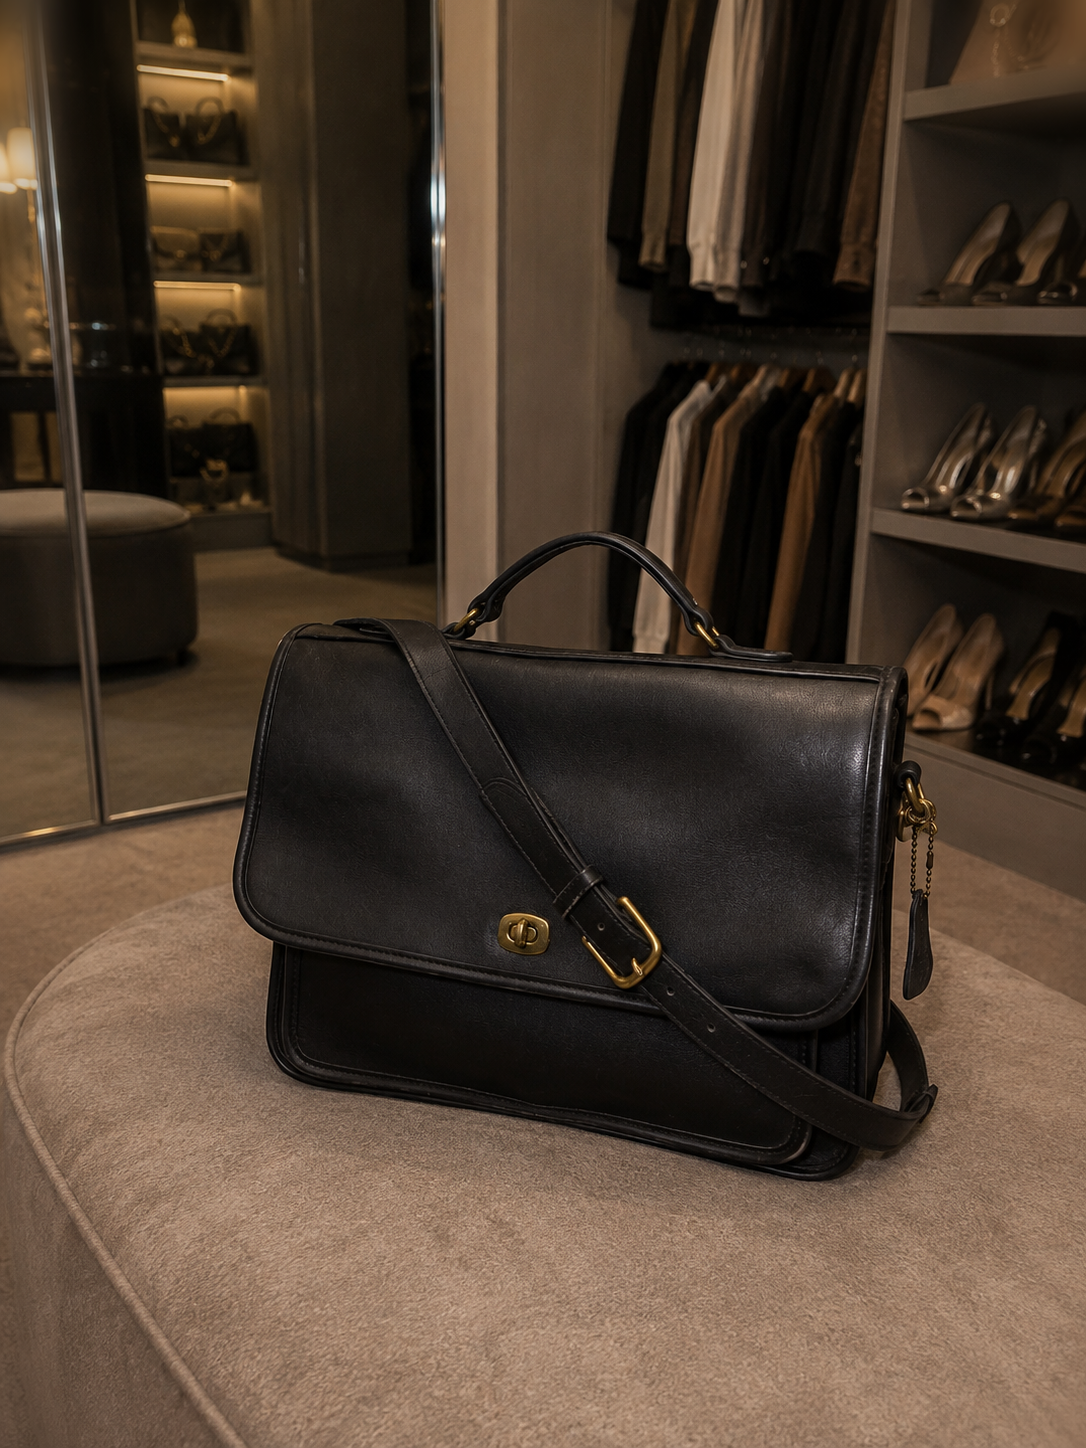
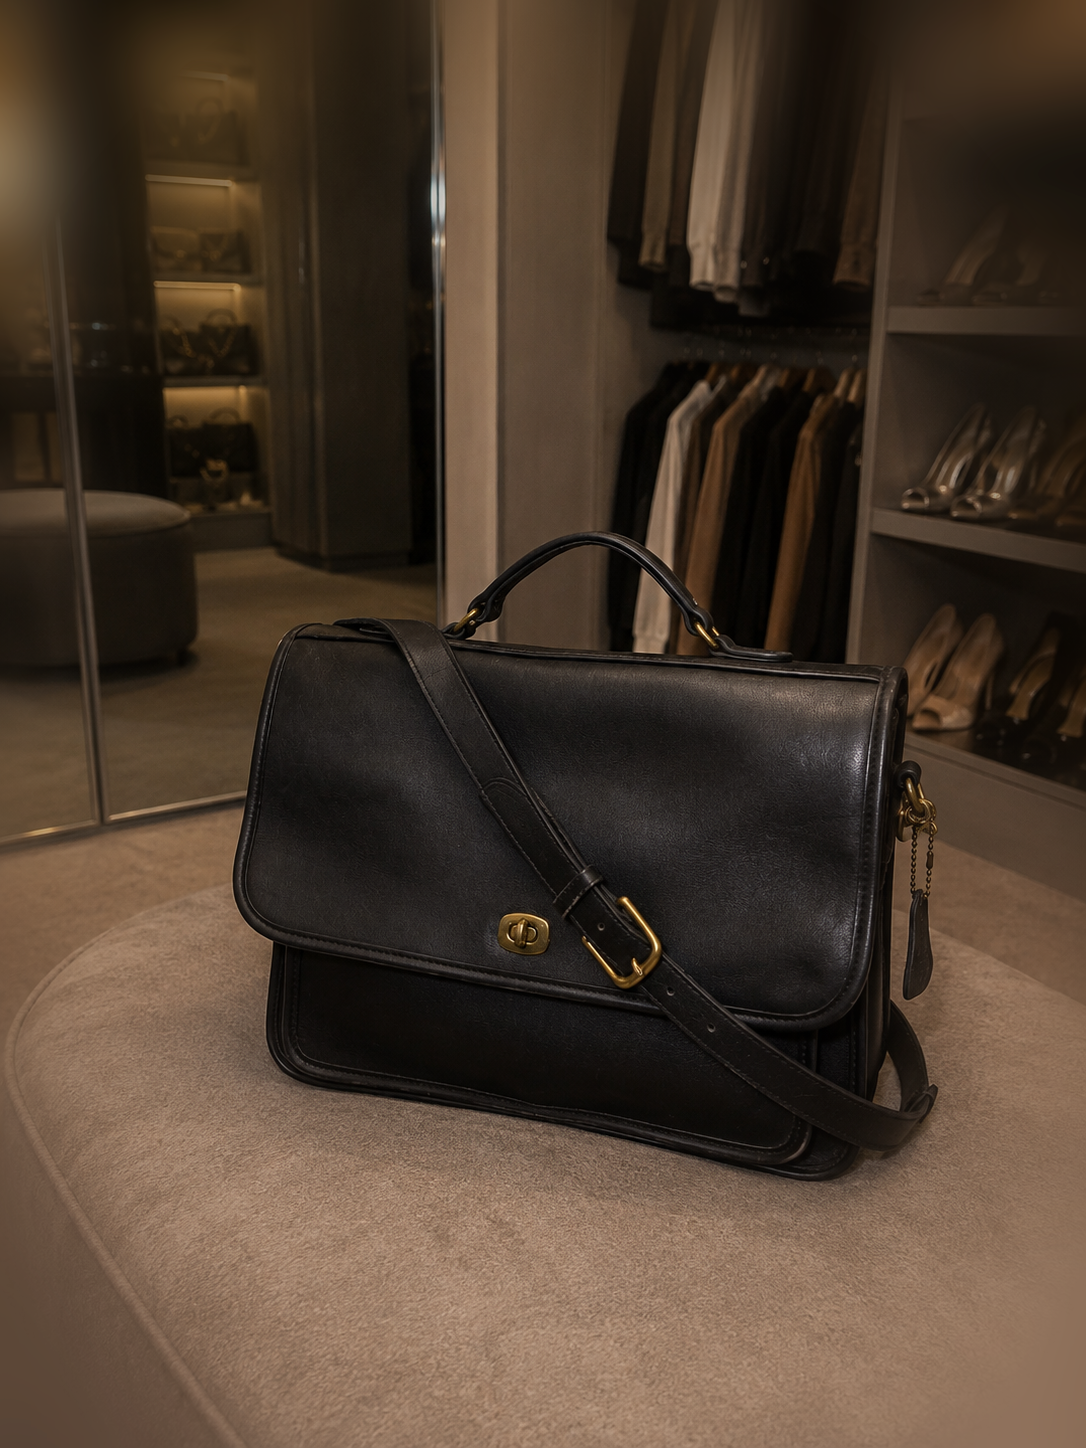
Replace README mermaid with a static flow diagram (renders on mobile), add it to the Procedure page, blur sample backgrounds harder

diff --git a/docs/procedure.html b/docs/procedure.html
@@ -36,6 +36,11 @@
   </div></section>
 
   <section class="section"><div class="wrap">
+    <figure style="margin:0 0 3.5rem;">
+      <span class="eyebrow" style="display:block;margin-bottom:1.2rem;">The flow</span>
+      <img src="./flow.svg" alt="resell·agent flow: photographs to a published eBay listing" style="width:100%;max-width:560px;display:block;border:1px solid var(--line);border-radius:4px;" />
+    </figure>
+
     <div class="op"><div class="rn">1</div><div>
       <h3>Install &amp; build</h3>
       <p>Node 22 or later. The build compiles to <code class="k">dist/</code>; rebuild after any change.</p>

diff --git a/README.md b/README.md
@@ -55,28 +55,7 @@ illustrative examples of that output.
 
 ## How it works
 
-```mermaid
-flowchart TD
-    P["Photos + notes"] -->|"--clean (optional)"| CUT
-    subgraph CUT["Cut the item out"]
-      direction LR
-      BG["Remove background<br/>U²-Net segmentation"] --> TRIM["Auto-crop<br/>trim transparent border to bbox + pad"]
-    end
-    CUT --> X["Extract attributes<br/>Claude vision"]
-    P -.->|"without --clean"| X
-    X --> COMPS
-    subgraph COMPS["Comps, gathered in parallel"]
-      direction LR
-      EB["eBay active + sold"]
-      OT["Poshmark · ThredUp · The RealReal · Mercari<br/>(gated, opt-in)"]
-    end
-    X --> TAX["Category + item specifics<br/>eBay Taxonomy API"]
-    COMPS --> PRICE["Price<br/>trimmed median + per-platform comparison"]
-    PRICE --> LIST["Listings<br/>eBay + Poshmark copy"]
-    TAX --> DRAFT["draft.json"]
-    LIST --> DRAFT
-    DRAFT -->|"post, on command"| PUB["Publish to eBay"]
-```
+![resell·agent flow: photographs to a published eBay listing](docs/flow.svg)
 
 ### Cutting the item out (`--clean`)
 
